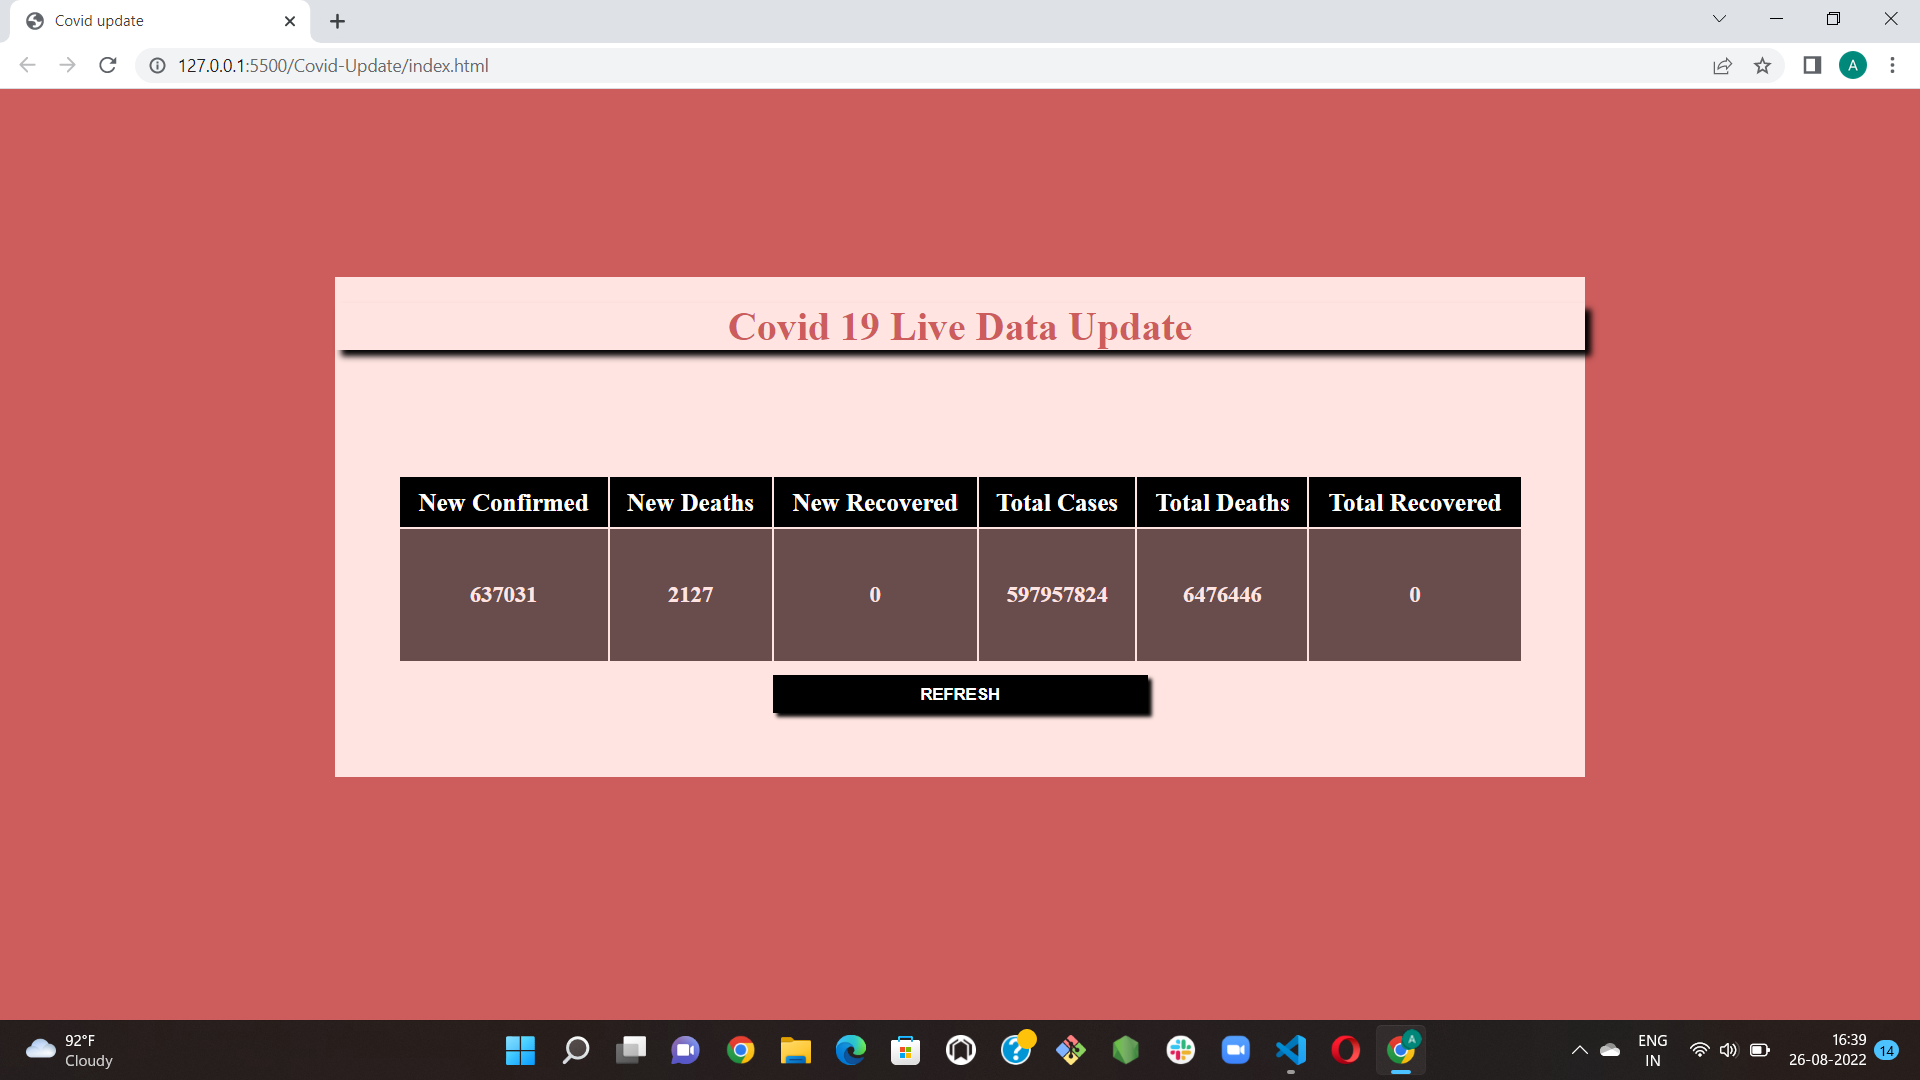
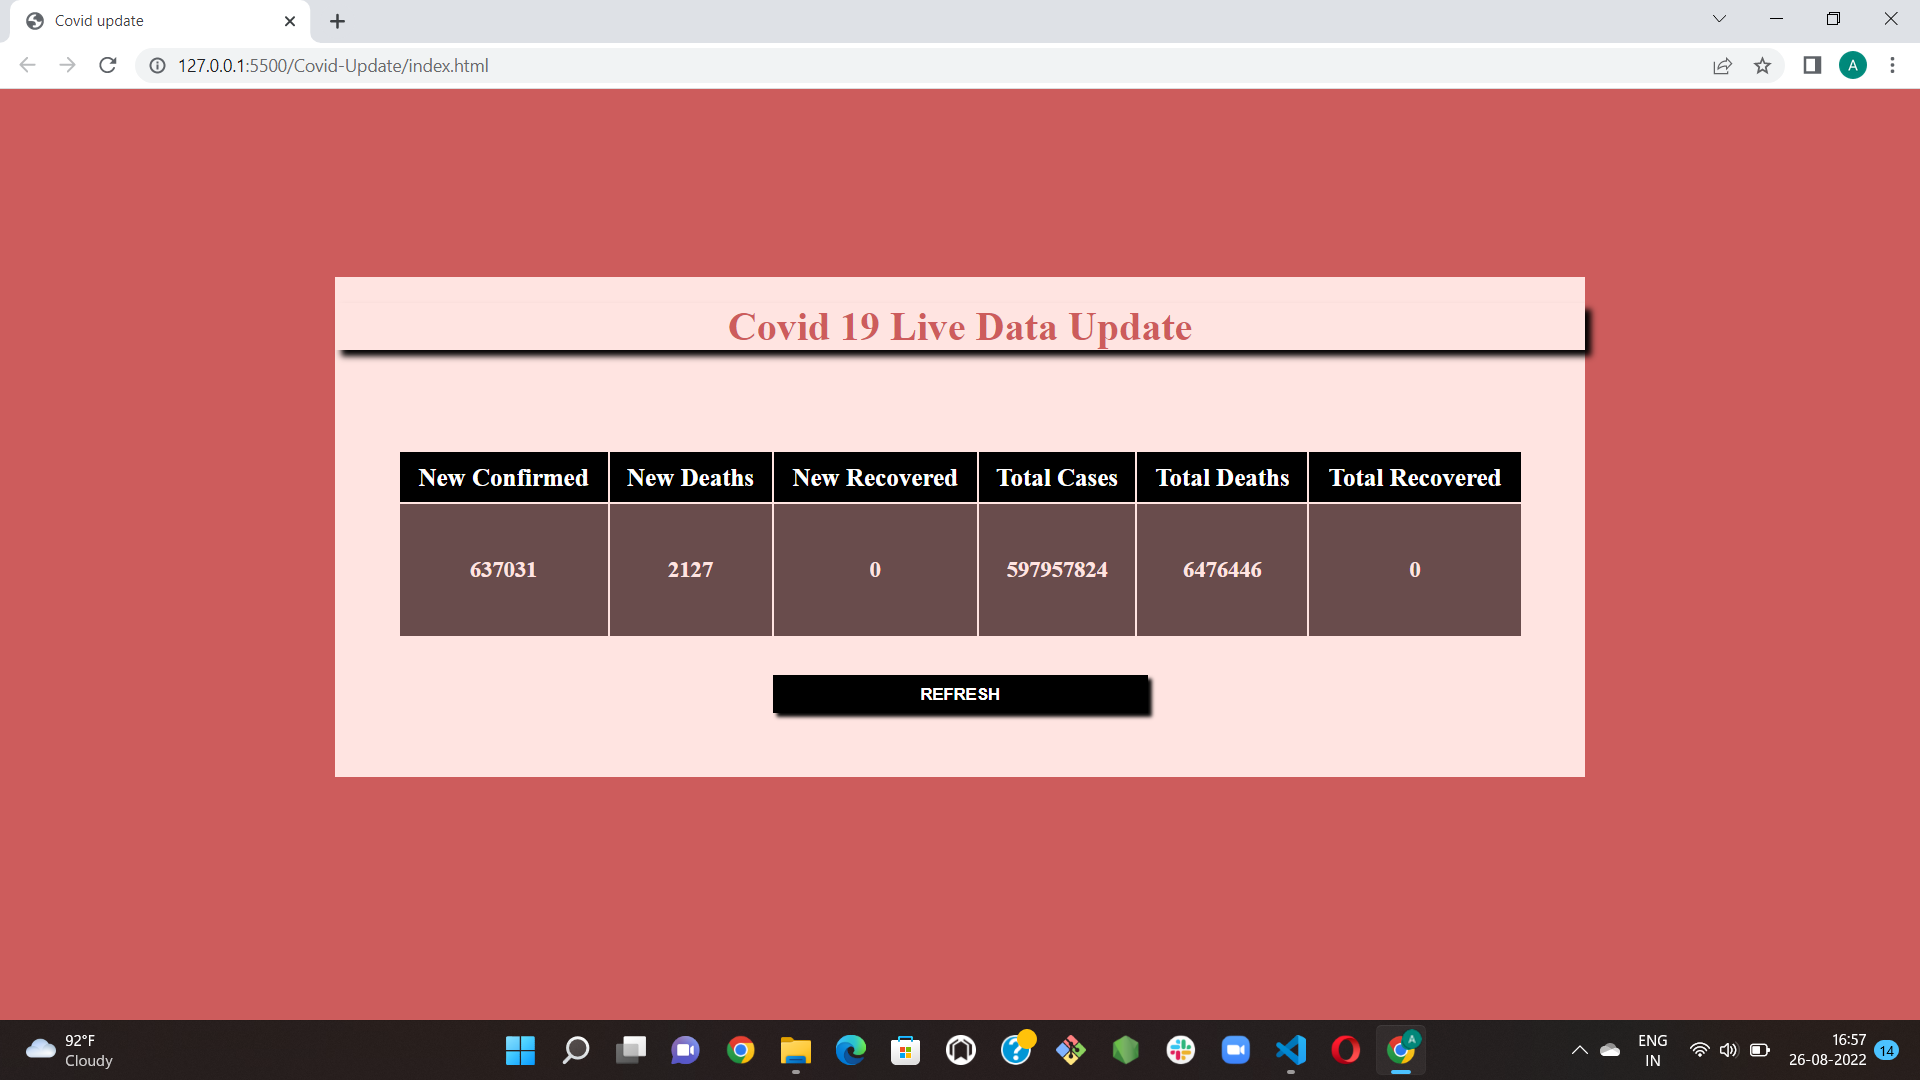
project

Changed region(s): [[0.1875, 0.3972, 0.8125, 0.4889], [0.1875, 0.5194, 0.8125, 0.6111], [0.3438, 0.5194, 0.375, 0.55]]

diff --git a/Covid-Update/style.css b/Covid-Update/style.css
@@ -16,7 +16,7 @@ body{
 
 .main-heading{
     color: #CD5C5C;
-    margin-bottom: 100px;
+    margin-bottom: 80px;
     box-shadow: 5px 5px 5px black;
 }
 
@@ -51,7 +51,7 @@ th{
     font-weight: bold;
     background-color: black;
     box-shadow: 3px 3px 3px black;
-    margin-top: 10px;
+    margin-top: 30px;
 }
 
 .btn:hover{

diff --git a/Covid-Update/app.js b/Covid-Update/app.js
@@ -1,5 +1,4 @@
 const btn = document.querySelector('.btn');
-const display = document.querySelector('.display');
 const tableData = document.querySelector('.tableData');
 
 btn.addEventListener('click',(e)=>{
